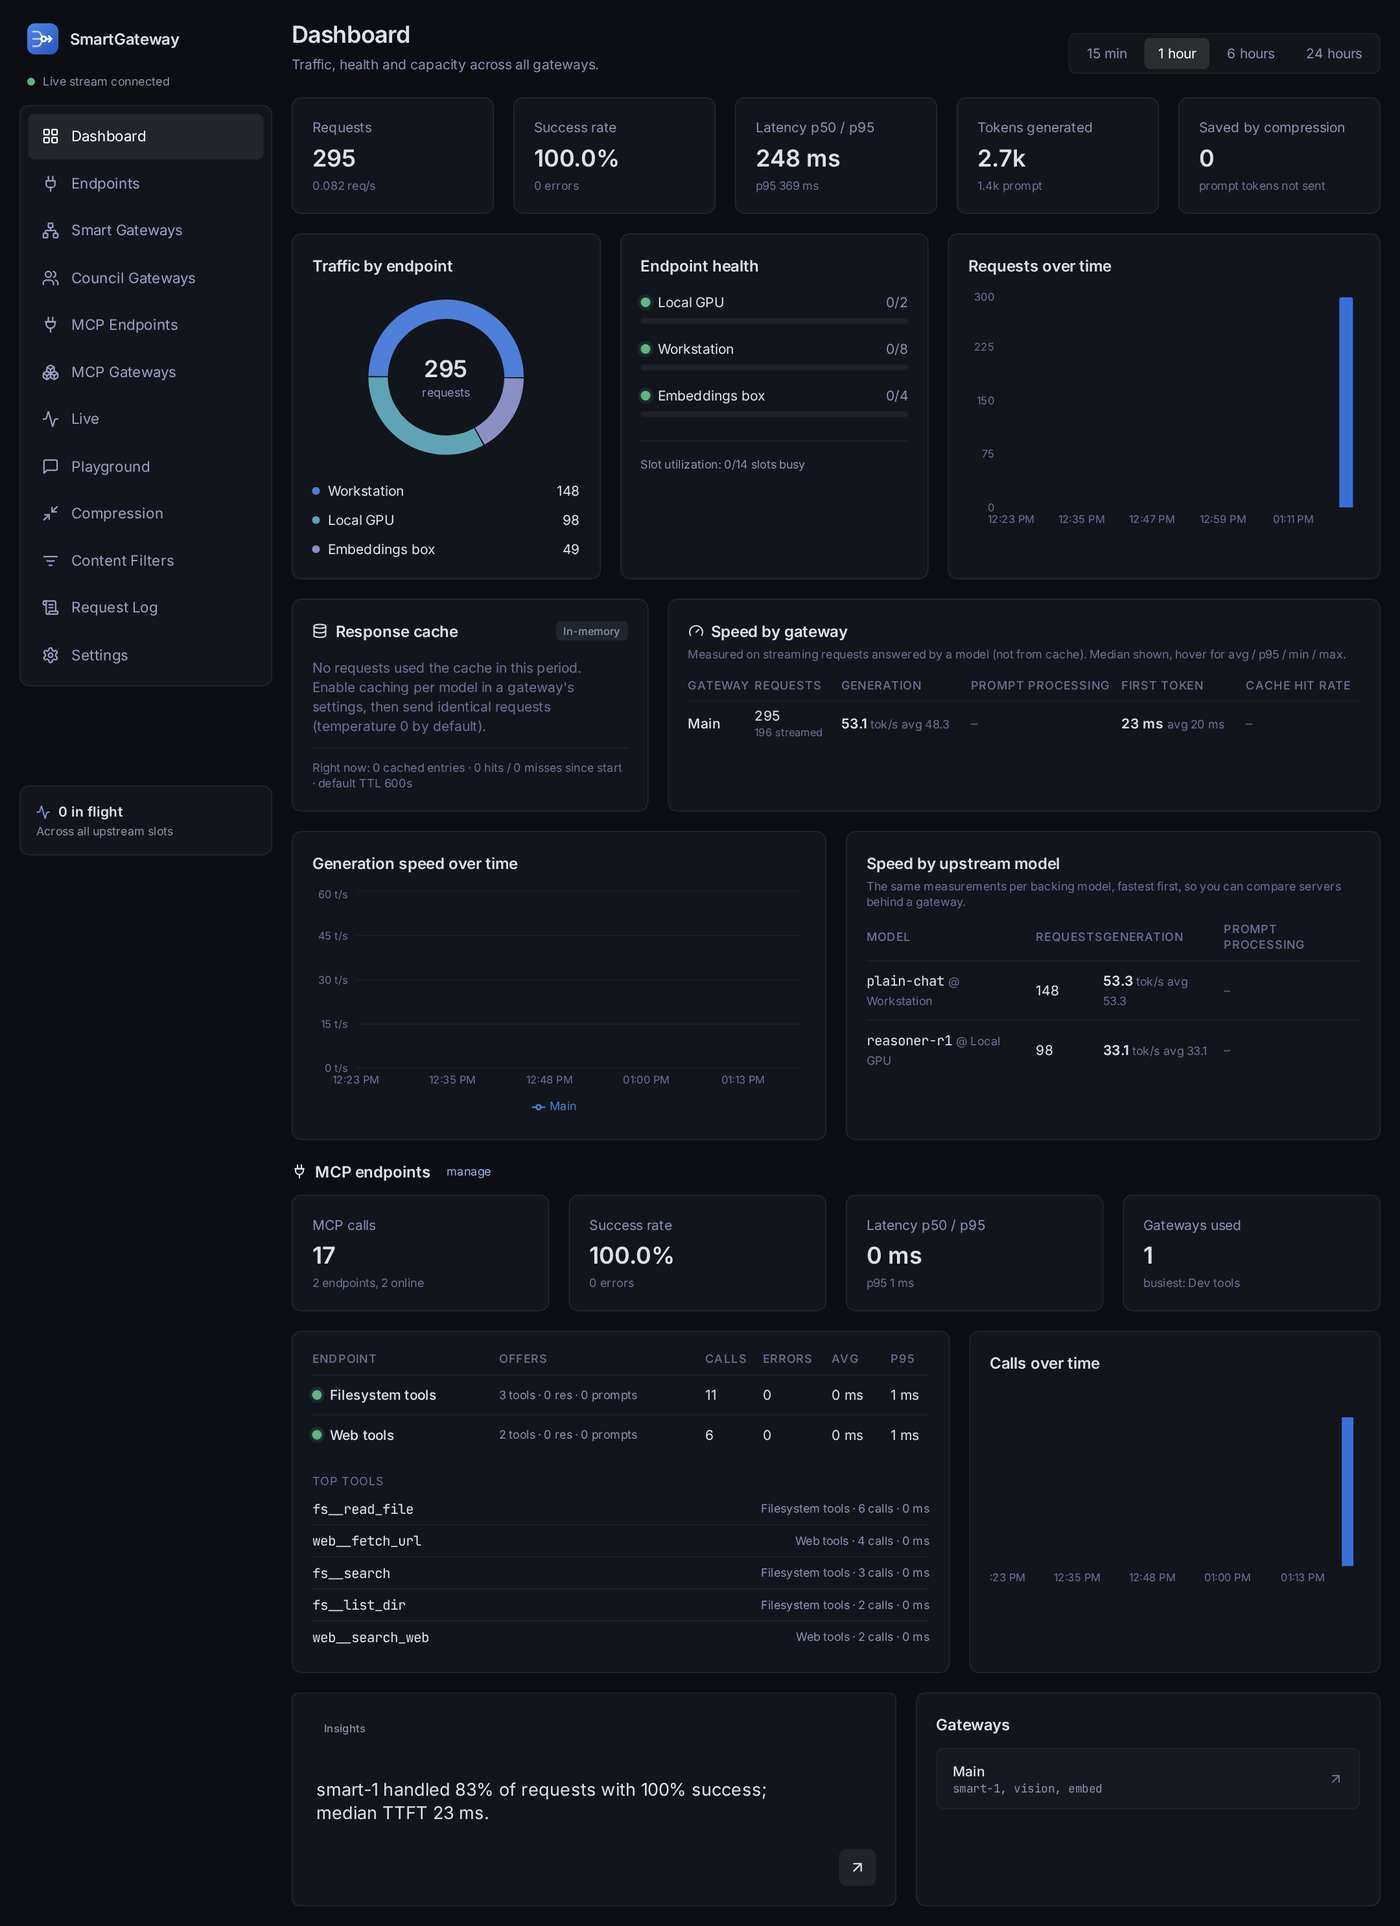
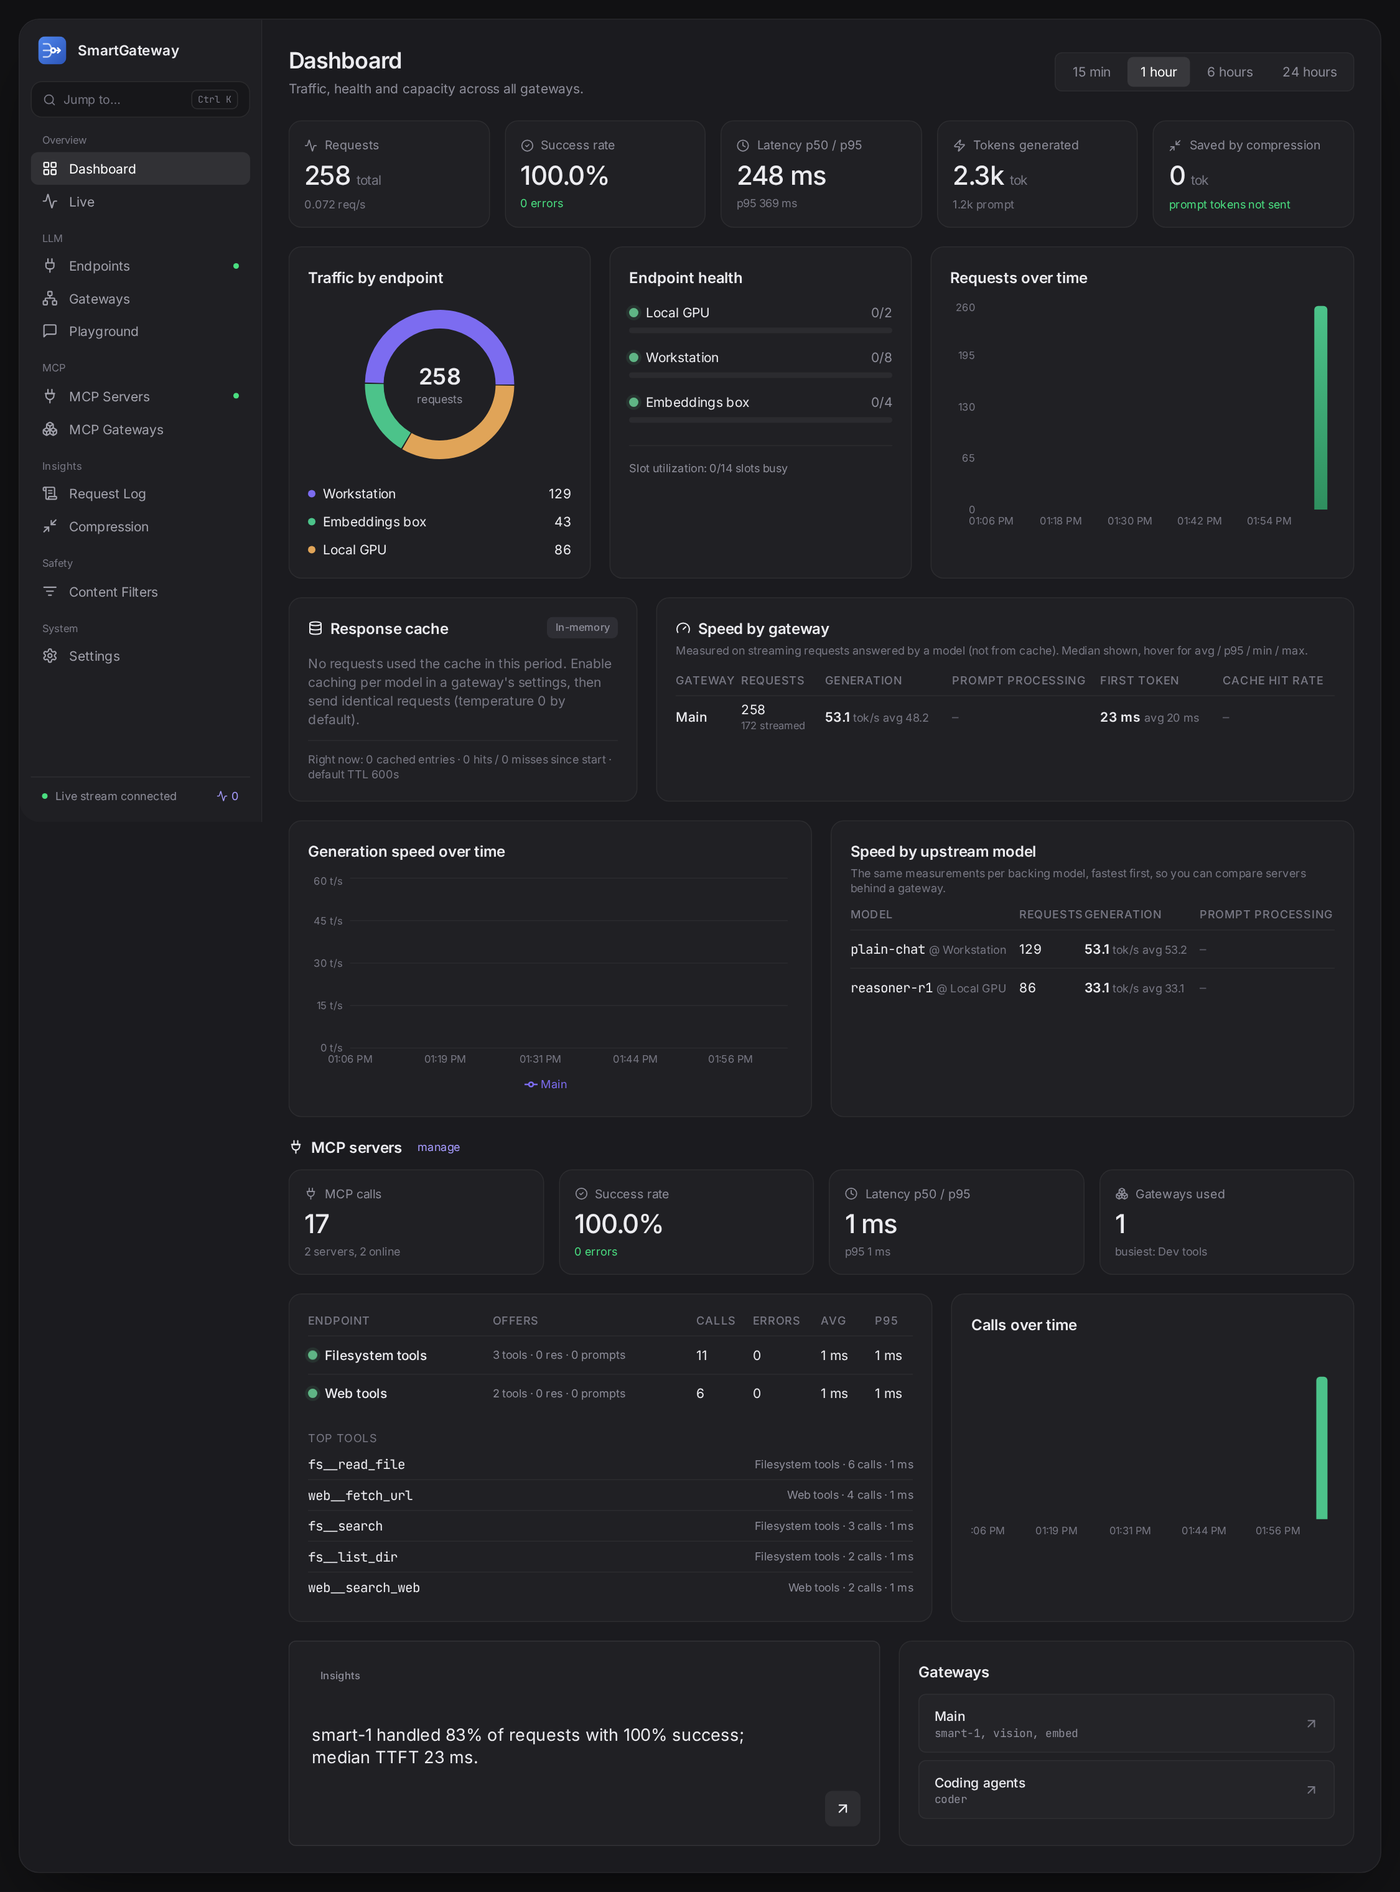
README: new screenshots and updated menu names

diff --git a/README.md b/README.md
@@ -15,7 +15,7 @@ context compression and live observability. It also combines remote **MCP server
   tiered small-to-large routing, fallbacks, sticky sessions, retries and circuit breaker.
 - **Your names, your rules.** Expose models under your own public names, plus optional extra aliases (`gpt-4o`, `claude-sonnet`, ...)
   so existing clients work unchanged. A unified endpoint serves several gateways from one URL.
-- **MCP Endpoints and MCP Gateways.** Connect external MCP servers, then publish a curated mix of their tools, resources and prompts as
+- **MCP Servers and MCP Gateways.** Connect external MCP servers, then publish a curated mix of their tools, resources and prompts as
   one MCP server with its own keys.
 - **Multi-tenant and safe.** Per-gateway API keys (hashed, shown once) with RPM/TPM limits, quotas and expiry; admin login;
   upstream keys encrypted at rest.
@@ -35,8 +35,8 @@ SG_ADMIN_PASSWORD='choose-a-long-password' docker compose up -d --build     # UI
 ```
 
 1. **Endpoints** -> add your upstream server (URL, optional key). Models and capabilities are discovered; enable the ones you want.
-2. **Smart Gateways** -> create a gateway, add models under public names. Point clients at `http://HOST:8080/gw/<slug>/v1`.
-3. Optional: create API keys on the gateway, add **MCP Endpoints** and combine them in an **MCP Gateway**.
+2. **Gateways** -> create a gateway, add models under public names. Point clients at `http://HOST:8080/gw/<slug>/v1`.
+3. Optional: create API keys on the gateway, add **MCP Servers** and combine them in an **MCP Gateway**.
 
 Try it without real models: `docker compose --profile demo up -d` starts three mock upstreams (`http://mock-a:9000/v1`, `mock-b`, `mock-c`),
 and `tools/load.sh http://localhost:8080 30` generates traffic against a gateway with slug `main`.
@@ -77,8 +77,8 @@ set a system prompt, default parameters, a max-tokens ceiling, caching and compr
 **Extra names (aliases):** a public model can have optional additional names. Clients may request any of them; the request is logged,
 cached and answered under the name used, and `/models` lists each one. Keys' allowed-model lists accept the canonical name or an alias.
 
-### MCP Endpoints and MCP Gateways
-**MCP Endpoints** connects remote MCP servers (Streamable HTTP, with legacy SSE fallback). Headers such as `Authorization` are stored
+### MCP Servers and MCP Gateways
+**MCP Servers** connects remote MCP servers (Streamable HTTP, with legacy SSE fallback). Headers such as `Authorization` are stored
 encrypted, and discovery, health checks and re-scans run automatically. **MCP Gateways** combines endpoints into one server at
 `/mcp/<slug>`:
 
@@ -86,13 +86,13 @@ encrypted, and discovery, health checks and re-scans run automatically. **MCP Ga
 - per endpoint you tick which items are exposed (new upstream items stay off until you enable them);
 - optional MCP API keys with rate limit, expiry and allowed tools; a gateway with no keys is open;
 - a built-in **Test** dialog, recent calls, and dashboard statistics (calls, errors, latency, top tools). Only metadata is logged, never
-  arguments or results; retention is configurable in Settings.
+  arguments or results; retention is configurable in Settings → Data.
 
 Not supported: stdio servers, OAuth login flows to upstream servers (use static headers/tokens), sampling, subscriptions and
 `listChanged` notifications.
 
 ### Unified endpoint
-Settings -> **Unified endpoint** exposes several gateways through one OpenAI-compatible URL, `/unified/v1`
+Gateways -> **Unified** tab exposes several gateways through one OpenAI-compatible URL, `/unified/v1`
 (`chat/completions`, `completions`, `embeddings`, `models`, plus the Anthropic `messages` and `responses` surfaces).
 You choose which gateways are exposed; the `model` a client sends is the **gateway name** (case-insensitive, the slug also works).
 A gateway with several public models is reachable as `Name` (its configurable default model) and as `Name/model`.
@@ -142,7 +142,7 @@ so later turns send a byte-identical (prompt-cache friendly) prefix, and a resul
 Compressing before routing also lets long conversations fit smaller context windows.
 
 * **Modes:** `off` (default) · `shadow` (measure what it would save, forward the original) · `on`. Set the global default in
-  **Settings → Context compression**; each public model can override it in the gateway editor. A client can opt out per request with
+  **Settings → Compression**; each public model can override it in the gateway editor. A client can opt out per request with
   `X-SG-Compress: off`. Compressed requests carry `X-SG-Compressed: <tokens saved>`.
 * **Compression page:** savings by content type and compressor (unique savings vs. tokens not sent on every turn), a **cache-alignment**
   view (volatile content such as timestamps/UUIDs in system prompts lowers a 0–100 score and breaks prefix/KV-cache reuse), **context
@@ -179,7 +179,7 @@ Replayed chunks are re-split on word boundaries, so chunk boundaries differ from
 finish reason and usage are identical. The Playground's **Test cache** button demonstrates all of this.
 
 By default entries live in process memory (lost on restart). To keep them across restarts and share them between instances, open
-**Settings** and enter a Redis URL (`redis://[:password@]host:6379/0`, `rediss://` for TLS), press *Test connection*, enable and save —
+**Settings → General** and enter a Redis URL (`redis://[:password@]host:6379/0`, `rediss://` for TLS), press *Test connection*, enable and save —
 no restart needed. A bundled Redis is available with `docker compose --profile redis up -d` (URL `redis://redis:6379/0`); `SG_REDIS_URL`
 can preconfigure it. The URL (with its password) is stored encrypted. If Redis is unreachable requests keep working: the cache falls back
 to memory (switchable in Settings) and reconnects automatically (`SG_CACHE_RETRY_AFTER`, default 15 s). Cached responses are shared by all
